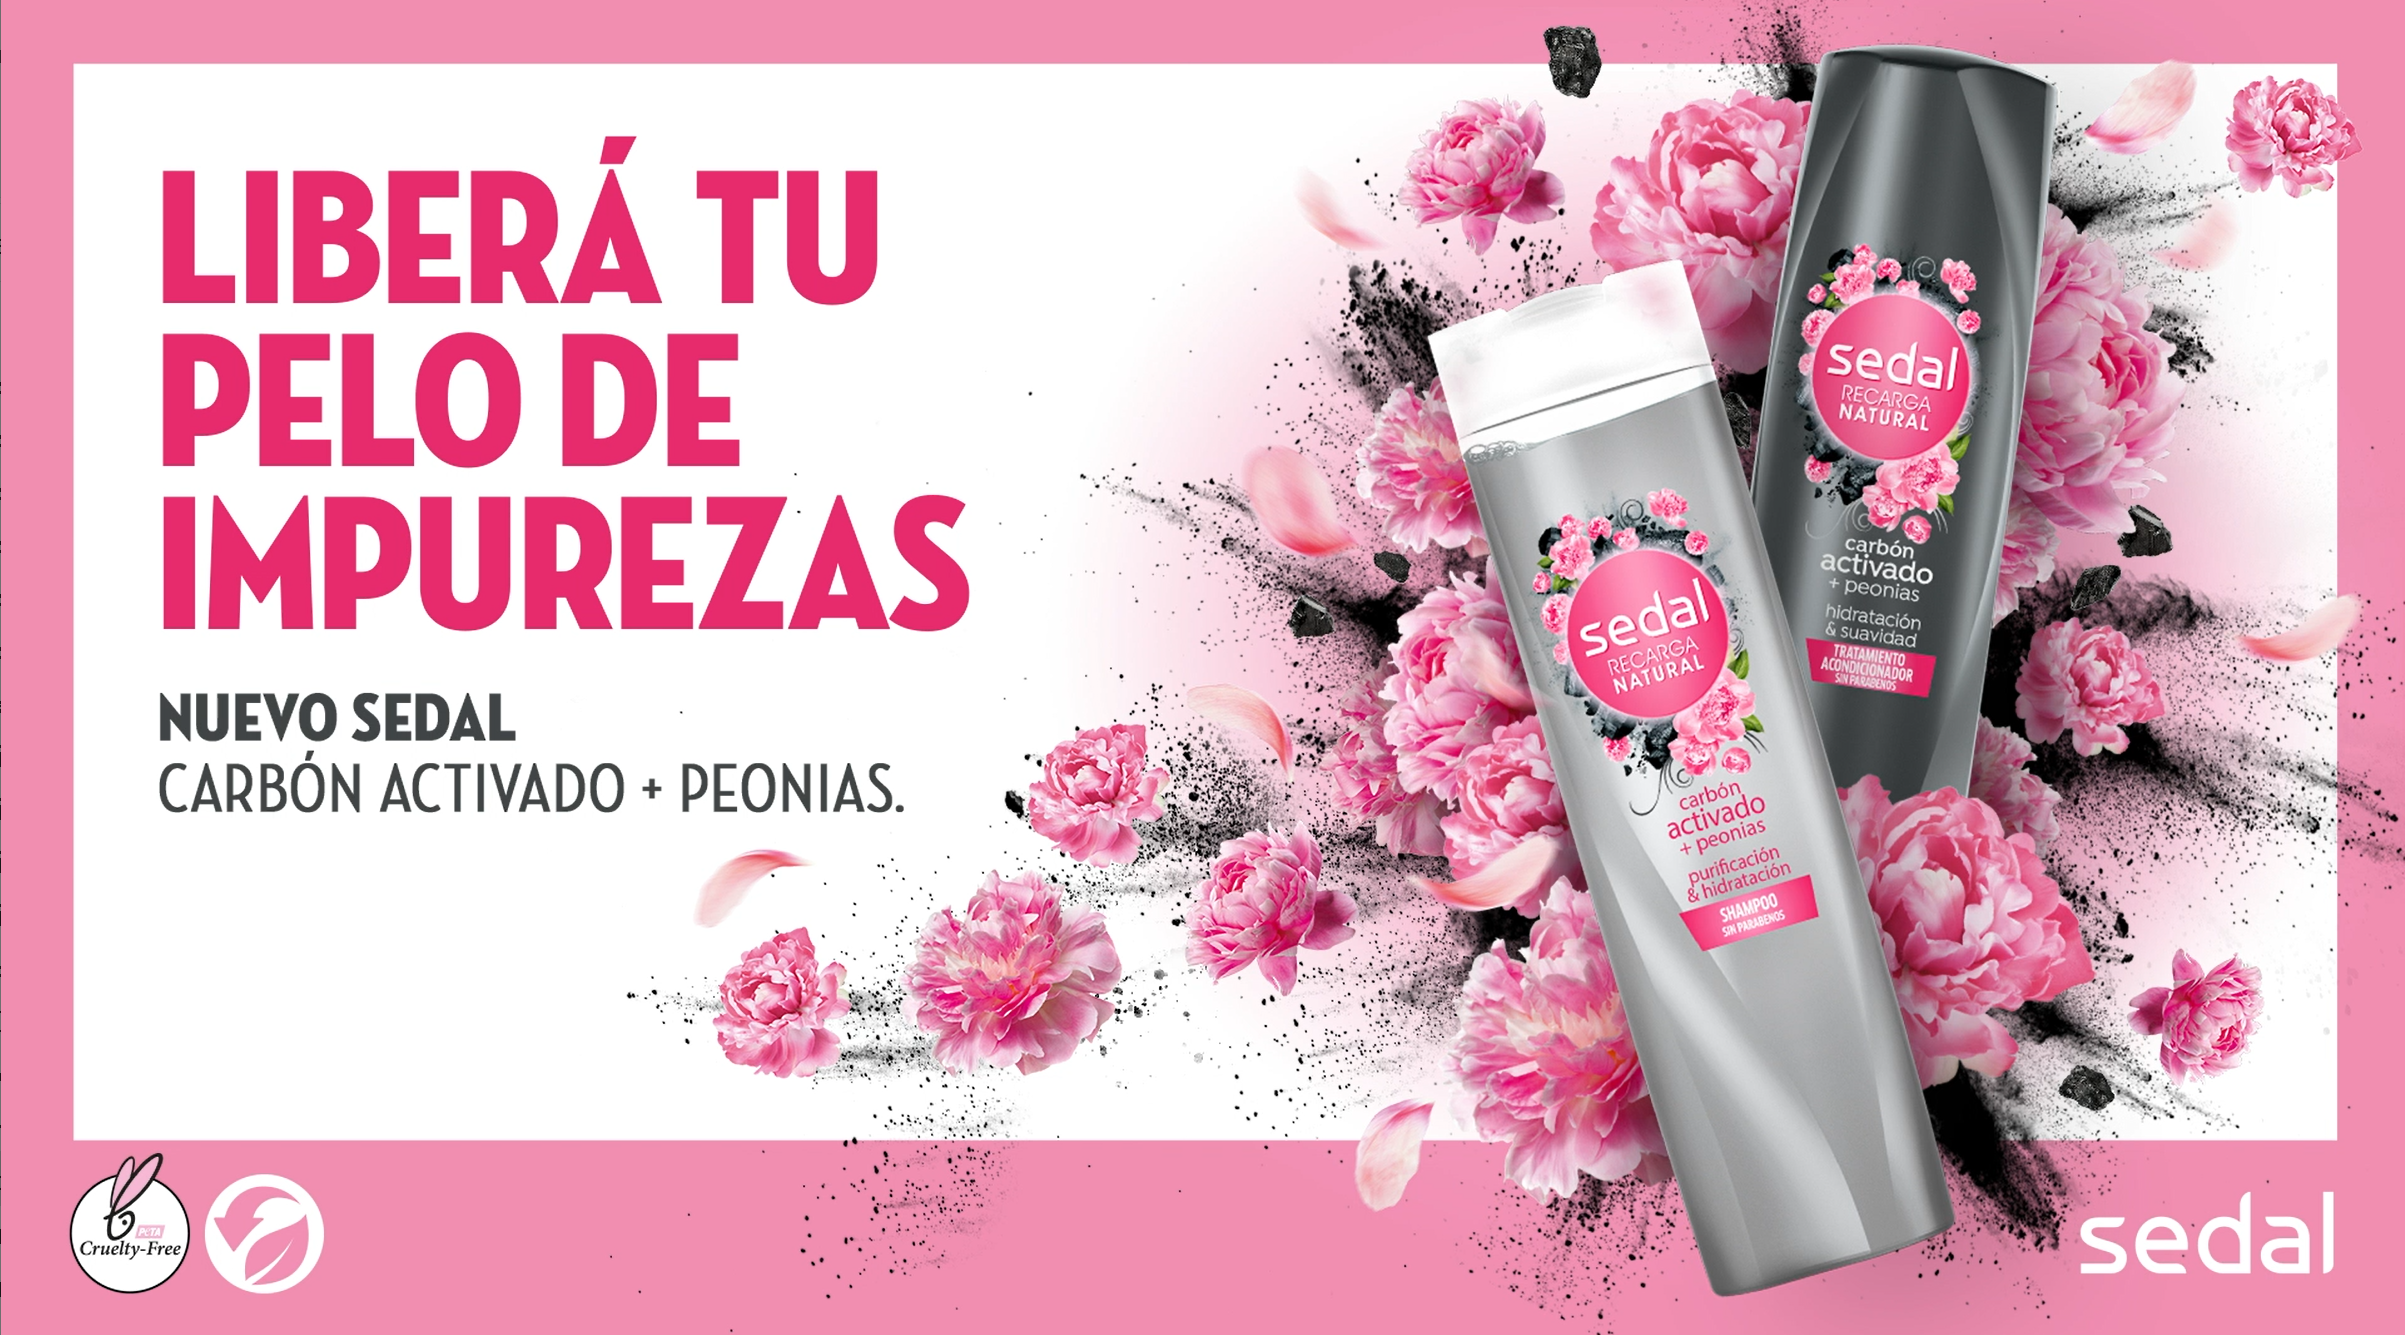
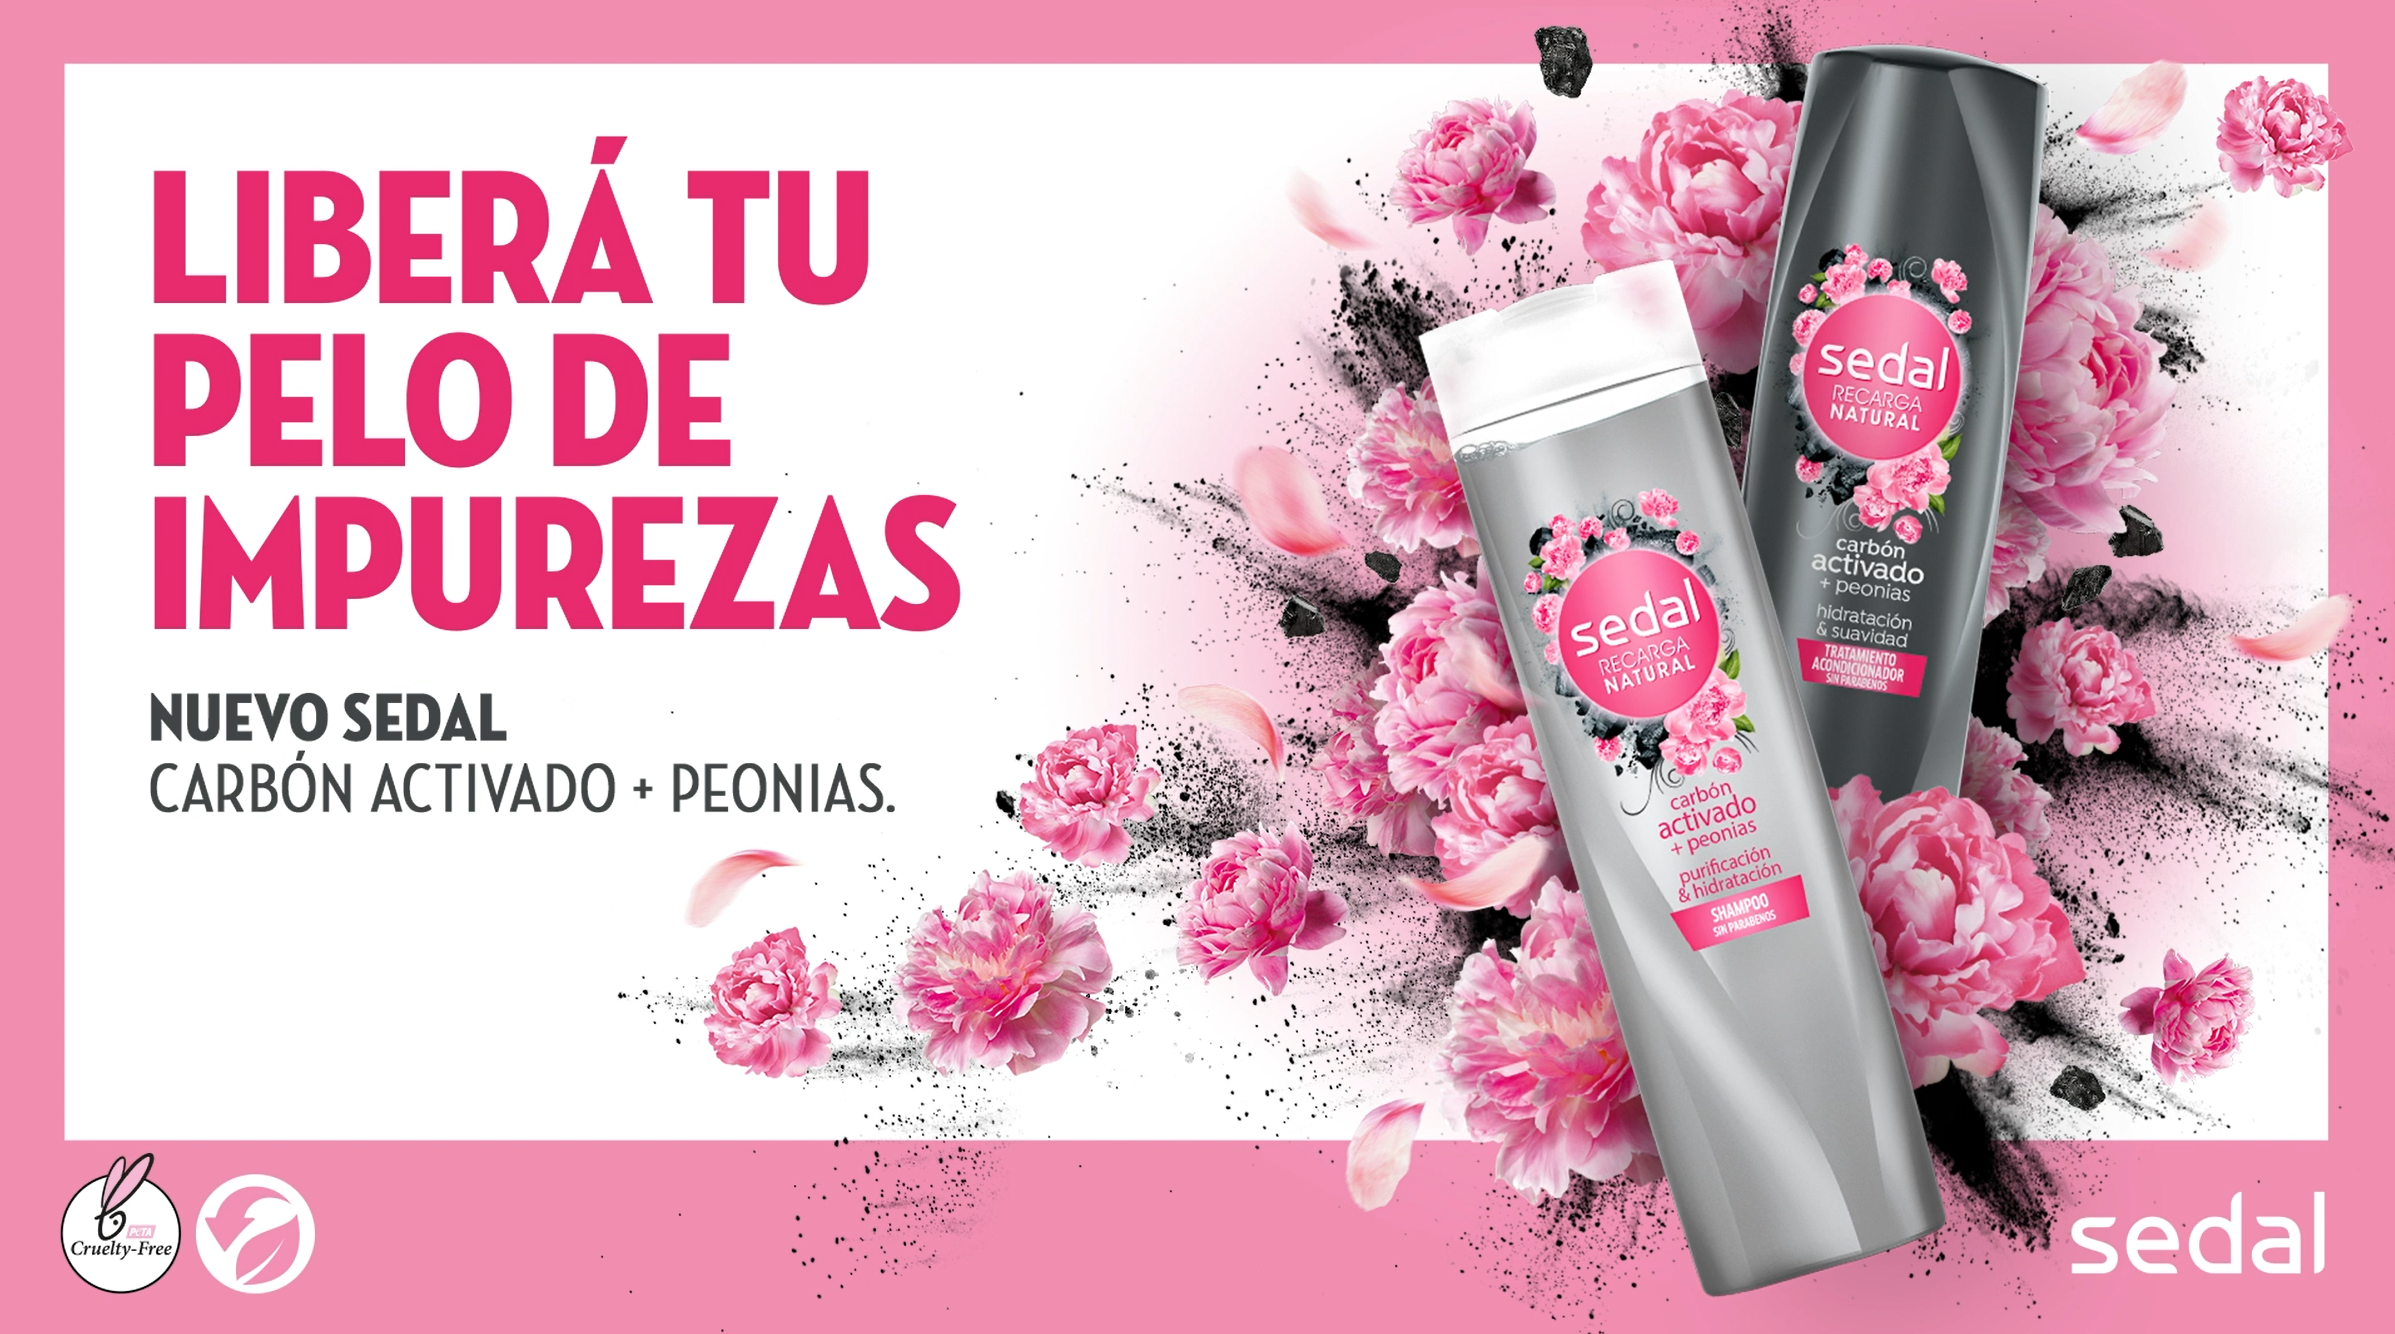
detalles

diff --git a/index.html b/index.html
@@ -118,7 +118,7 @@
                     <div class="row align-items-center">
                         <div class="col-lg-6 col-md-12">
                             <div class="about-inner authenthick-about pr--30">
-                                <h4 class="heading headin-h4 theme-color wow move-up">Lorem, ipsum dolor.</h4>
+                                <h4 class="heading headin-h4 theme-color wow move-up">Belleza</h4>
                                 <div class="bkseparator--30"></div>
                                 <h3 class="heading heading-h3 heading-font line-height-1-5 wow move-up">Carbón activado: el ingrediente estrella para tener un pelo saludable
                                 </h3>
@@ -366,7 +366,7 @@
                 <div class="row row--0 align-items-center">
                     <div class="col-lg-12 col-xl-6">
                         <div class="bext-service thumb">
-                            <img src="imgs/remeras-1.png" alt="images">
+                            <img src="imgs/Principal-1.png" alt="images">
                         </div>
                     </div>
                     <div class="col-lg-12 col-xl-6">
